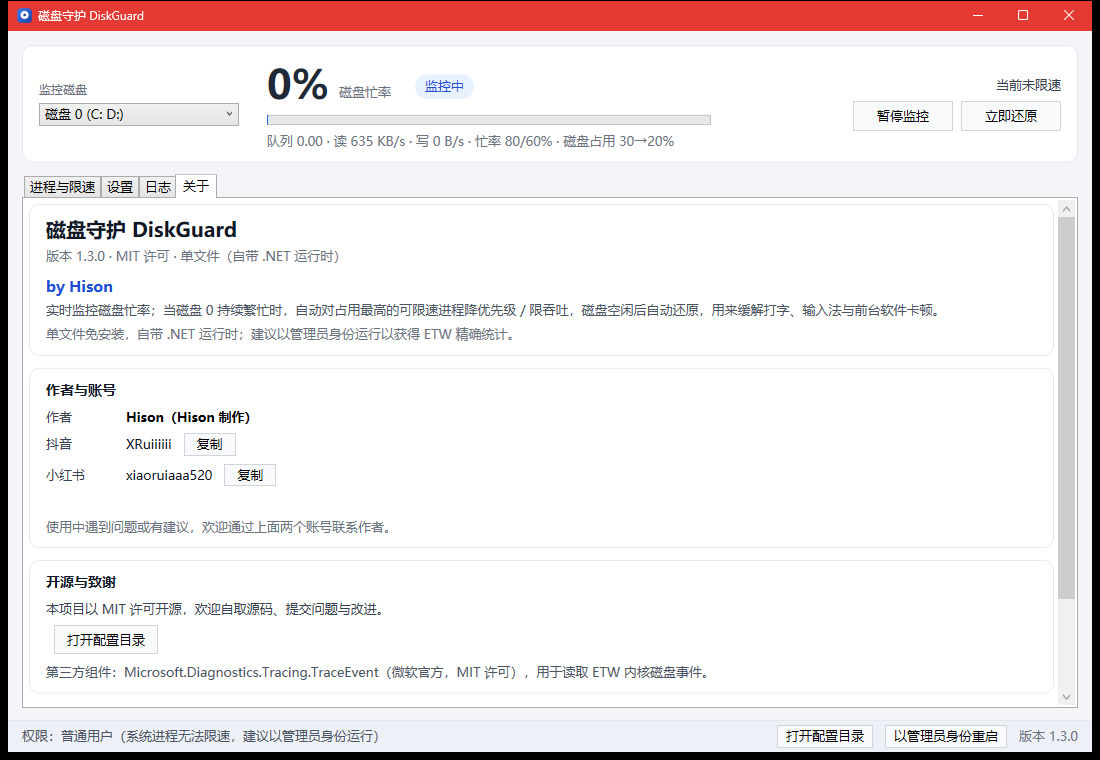
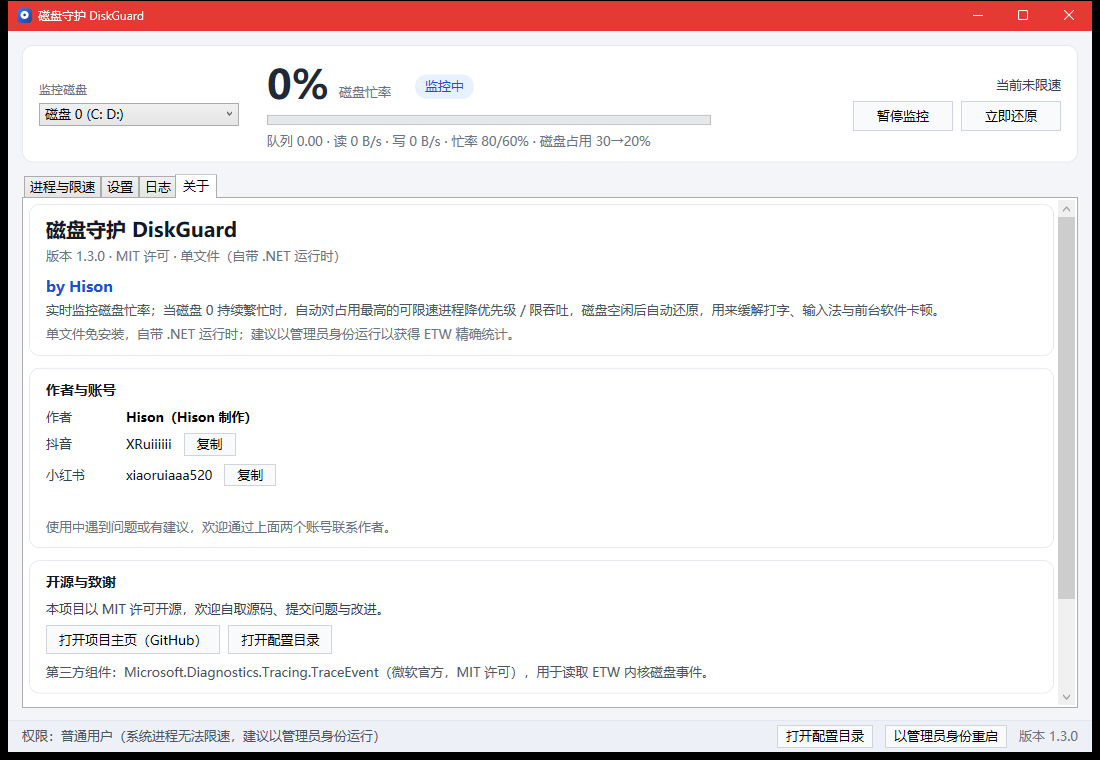
关于页填入项目主页地址（GitHub）
- ProjectUrl 指向 https://github.com/XiaoRui114514/DiskGuard，关于页显示 打开项目主页（GitHub）按钮
- 更新关于页截图

Changed region(s): [[0.3091, 0.1816, 0.6182, 0.2118], [0.0309, 0.8171, 0.1855, 0.8474], [0.2164, 0.8171, 0.3091, 0.8776]]

diff --git a/src/DiskGuard.App/MainWindow.xaml.cs b/src/DiskGuard.App/MainWindow.xaml.cs
@@ -17,7 +17,7 @@ namespace DiskGuard.App;
 public partial class MainWindow : Window
 {
     /// <summary>项目主页：发布到 GitHub 后把仓库地址填在这里，「关于」页就会出现"打开项目主页"按钮。</summary>
-    private const string ProjectUrl = "";
+    private const string ProjectUrl = "https://github.com/XiaoRui114514/DiskGuard";
 
     private readonly GuardEngine _engine;
     private readonly AppSettings _settings;
